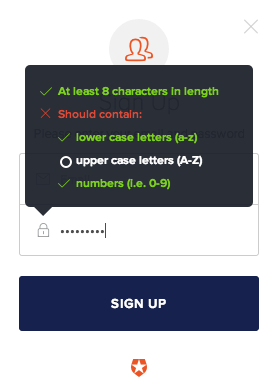
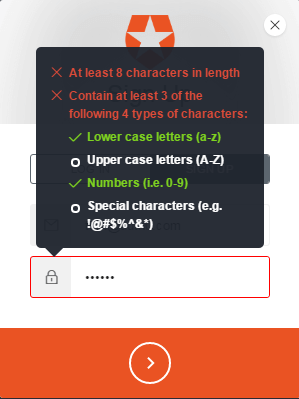
Update screenshots and fix navigation path

diff --git a/articles/connections/database/password-strength.md b/articles/connections/database/password-strength.md
@@ -15,7 +15,7 @@ With this feature, Auth0 allows to customize the level of complexity of the pass
 
 ## Changing your policy
 
-To change the password strength policy, go to [Database connections](${uiURL}/#/connections/database), click on the `Security` button on the connection you want to apply it:
+To change the password strength policy, go to [Database connections](${uiURL}/#/connections/database), click on the `Password Strength` button on the connection you want to apply it:
 
 ![Password Strength Panel in Auth0](/media/articles/password-strength/jH0kabJPoi.png)
 
